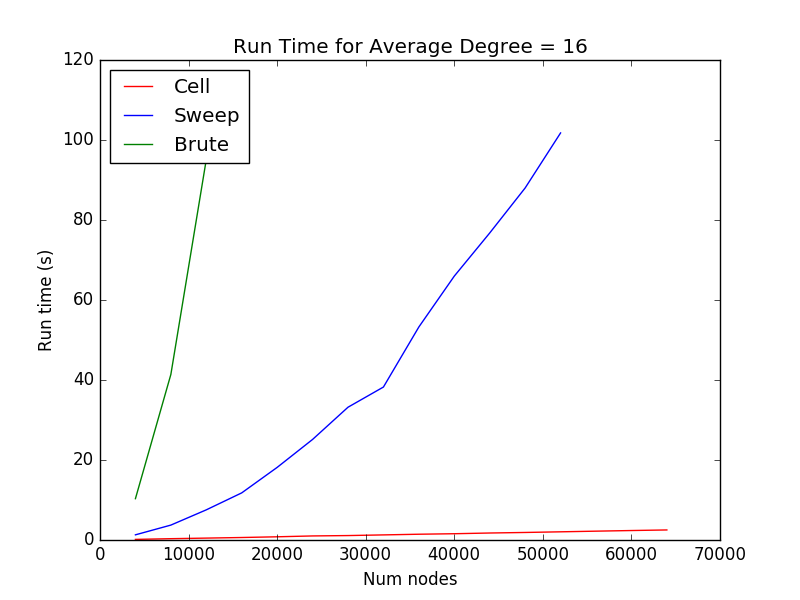
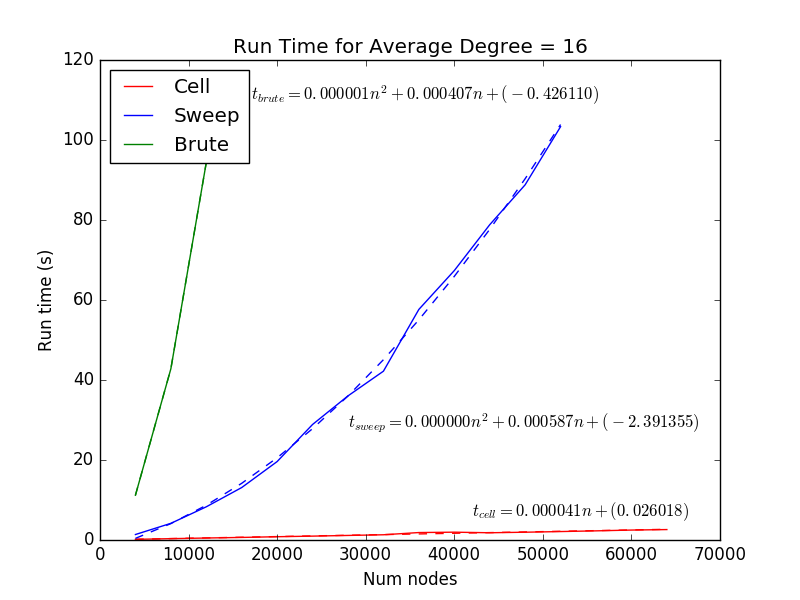
Adds trendline functions to runtime graphs

diff --git a/data_gen.py b/data_gen.py
@@ -72,6 +72,19 @@ def runForVarNodes():
     with open('./report/data/nodes_brute.pkl', 'w') as f:
         pickle.dump(nodes_brute, f)
 
+def runForVarAvgDeg():
+    times_cell, avg_degs_cell = varryAvgDeg(method="cell")
+    with open('./report/data/times_cell_deg.pkl', 'w') as f:
+        pickle.dump(times_cell, f)
+    with open('./report/data/avg_degs_cell.pkl', 'w') as f:
+        pickle.dump(avg_degs_cell, f)
+
+    times_sweep, avg_degs_sweep = varryAvgDeg(method="sweep")
+    with open('./report/data/times_sweep_deg.pkl', 'w') as f:
+        pickle.dump(times_sweep, f)
+    with open('./report/data/avg_degs_sweep.pkl', 'w') as f:
+        pickle.dump(avg_degs_sweep, f)
+
 def plotForVarNodes():
     with open('./report/data/times_cell.pkl', 'r') as f:
         times_cell = pickle.load(f)
@@ -88,27 +101,31 @@ def plotForVarNodes():
     with open('./report/data/nodes_brute.pkl', 'r') as f:
         nodes_brute = pickle.load(f)
 
+    c = np.polyfit(nodes_cell, times_cell, 1)
+    c_n = np.poly1d(c)
+    s = np.polyfit(nodes_sweep, times_sweep, 2)
+    s_n = np.poly1d(s)
+    b = np.polyfit(nodes_brute, times_brute, 2)
+    b_n = np.poly1d(b)
+
+    print "cell: t = %.6fn + (%.6f)"%(c[0],c[1])
+    print "sweep: t = %.6fn^2 + %.6fn + (%.6f)"%(s[0],s[1],s[2])
+    print "brute: t = %.6fn^2 + %.6fn + (%.6f)"%(b[0],b[1],b[2])
+
     plt.plot(nodes_cell, times_cell, 'r-', label="Cell")
+    plt.plot(nodes_cell, c_n(nodes_cell), 'r--')
+    plt.text(42000, 6, '$t_{cell} = %.6fn + (%.6f)$'%(c[0],c[1]))
     plt.plot(nodes_sweep, times_sweep, 'b-', label="Sweep")
+    plt.plot(nodes_sweep, s_n(nodes_sweep), 'b--')
+    plt.text(28000, 28, '$t_{sweep} = %.6fn^2 + %.6fn + (%.6f)$'%(s[0],s[1],s[2]))
     plt.plot(nodes_brute, times_brute, 'g-', label="Brute")
+    plt.plot(nodes_brute, b_n(nodes_brute), 'g--')
+    plt.text(17000, 110, '$t_{brute} = %.6fn^2 + %.6fn + (%.6f)$'%(b[0],b[1],b[2]))
     plt.xlabel("Num nodes")
     plt.ylabel("Run time (s)")
     plt.title("Run Time for Average Degree = 16")
     plt.legend(loc=2)
     plt.show()
-
-def runForVarAvgDeg():
-    times_cell, avg_degs_cell = varryAvgDeg(method="cell")
-    with open('./report/data/times_cell_deg.pkl', 'w') as f:
-        pickle.dump(times_cell, f)
-    with open('./report/data/avg_degs_cell.pkl', 'w') as f:
-        pickle.dump(avg_degs_cell, f)
-
-    times_sweep, avg_degs_sweep = varryAvgDeg(method="sweep")
-    with open('./report/data/times_sweep_deg.pkl', 'w') as f:
-        pickle.dump(times_sweep, f)
-    with open('./report/data/avg_degs_sweep.pkl', 'w') as f:
-        pickle.dump(avg_degs_sweep, f)
 
 def plotForVarAvgDeg():
     with open('./report/data/times_cell_deg.pkl', 'r') as f:
@@ -121,8 +138,20 @@ def plotForVarAvgDeg():
     with open('./report/data/avg_degs_sweep.pkl', 'r') as f:
         avg_degs_sweep = pickle.load(f)
 
+    c = np.polyfit(avg_degs_cell, times_cell, 1)
+    c_n = np.poly1d(c)
+    s = np.polyfit(avg_degs_sweep, times_sweep, 2)
+    s_n = np.poly1d(s)
+
+    print "cell: t = %.6fn + (%.6f)"%(c[0],c[1])
+    print "sweep: t = %.6fn^2 + %.6fn + (%.6f)"%(s[0],s[1],s[2])
+
     plt.plot(avg_degs_cell, times_cell, 'r-', label="Cell")
+    plt.plot(avg_degs_cell, c_n(avg_degs_cell), 'r--')
+    plt.text(20, 6, '$t_{cell} = %.6fn + (%.6f)$'%(c[0],c[1]))
     plt.plot(avg_degs_sweep, times_sweep, 'b-', label="Sweep")
+    plt.plot(avg_degs_sweep, s_n(avg_degs_sweep), 'b--')
+    plt.text(12, 56, '$t_{sweep} = %.6fn^2 + %.6fn + (%.6f)$'%(s[0],s[1],s[2]))
     plt.xlabel("Average Degree")
     plt.ylabel("Run time (s)")
     plt.title("Run Time for |V| = 32,000")
@@ -151,8 +180,8 @@ def plotDistributionOfDegrees():
 
 def main():
     # runForVarNodes()
-    runForVarAvgDeg()
-    # plotForVarNodes()
+    # runForVarAvgDeg()
+    plotForVarNodes()
     # plotForVarAvgDeg()
     # plotDistributionOfDegrees()
 
